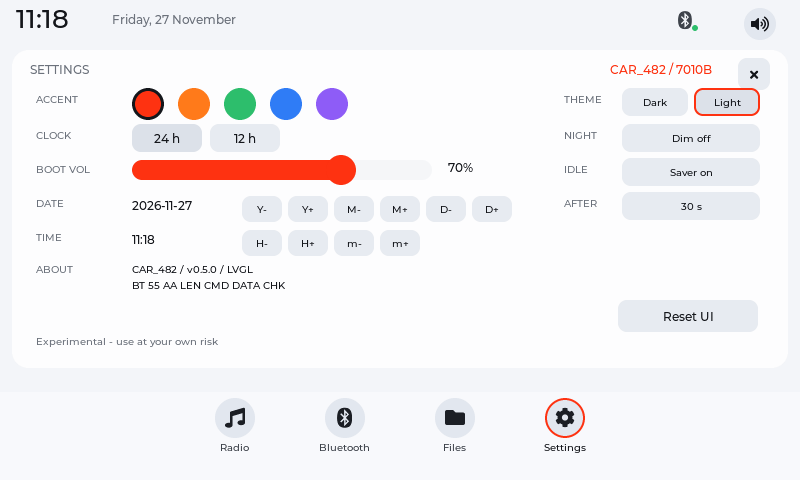
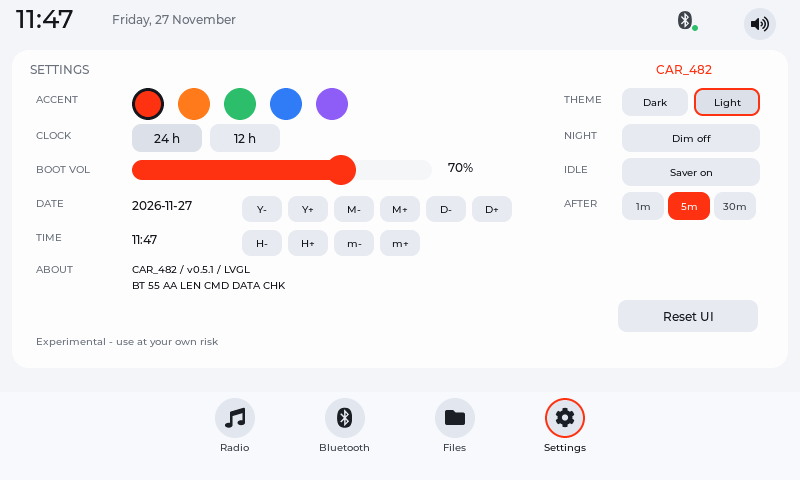
settings: remove close, shorten header, add 1m/5m/30m saver timeout options

diff --git a/prototype/index.html b/prototype/index.html
@@ -323,6 +323,10 @@
   }
   .file-preview .panel-close{position:absolute;right:12px;top:10px}
   .settings-cols{display:flex;gap:28px;margin-top:8px}
+  .settings-cols .settings-row{margin-top:6px}
+  .settings-cols .settings-row > span:first-child{white-space:nowrap;flex:none}
+  .settings-cols .settings-row .clock-btn{padding:5px 12px}
+  .settings-row [data-timeout].sel{background:var(--accent);color:#fff}
   .settings-col{flex:1;min-width:0}
   .settings-row{display:flex;align-items:center;gap:14px;margin-top:10px;font-size:11px;color:var(--muted)}
   .settings-input{background:var(--inner);border:0;border-radius:8px;color:var(--text);font-family:inherit;font-size:12px;padding:6px 8px;color-scheme:dark;width:180px}
@@ -656,7 +660,7 @@
 
   <!-- SETTINGS PANEL -->
   <section class="app-panel" id="settingsPanel">
-    <div class="panel-head"><span class="label">Settings</span><span class="source">CAR_482 / 7010B</span><button class="panel-close" data-close>×</button></div>
+    <div class="panel-head"><span class="label">Settings</span><span class="source">CAR_482</span></div>
     <div class="settings-cols">
       <div class="settings-col">
         <div class="settings-row">
@@ -694,7 +698,9 @@
         </div>
         <div class="settings-row">
           <span>Saver after</span>
-          <button class="clock-btn" id="saverTimeout">30 s</button>
+          <button class="clock-btn" data-timeout="60">1m</button>
+          <button class="clock-btn sel" data-timeout="300">5m</button>
+          <button class="clock-btn" data-timeout="1800">30m</button>
         </div>
       </div>
       <div class="settings-col">
@@ -718,7 +724,7 @@
         <div class="sub-label" style="margin-top:12px">About</div>
         <div class="about-grid">
           <span>Bluetooth</span><b>CAR_482</b>
-          <span>UI</span><b>LVGL 9.3 / v0.5.0</b>
+          <span>UI</span><b>LVGL 9.3 / v0.5.1</b>
           <span>BT link</span><b>55 AA LEN CMD DATA CHK</b>
         </div>
       </div>
@@ -924,10 +930,10 @@
   let lightTheme = false;
   let nightDimOn = false;
   let saverEnabled = true;
-  let saverTimeout = 30;
+  let saverTimeout = 300;
   try {
     const st = Number(localStorage.getItem('strada.saverTimeout'));
-    if (Number.isFinite(st) && st >= 5) saverTimeout = st;
+    if (st === 60 || st === 300 || st === 1800) saverTimeout = st;
   } catch (e) {}
   let lastActive = Date.now();
 
@@ -950,7 +956,8 @@
   function setSaverTimeout(sec) {
     saverTimeout = sec;
     try { localStorage.setItem('strada.saverTimeout', String(sec)); } catch (e) {}
-    el('saverTimeout').textContent = sec >= 60 ? (sec / 60) + ' min' : sec + ' s';
+    document.querySelectorAll('[data-timeout]').forEach(b =>
+      b.classList.toggle('sel', Number(b.dataset.timeout) === sec));
     lastActive = Date.now();
   }
   function setScreensaver(on) {
@@ -964,11 +971,8 @@
   el('themeLight').addEventListener('click', () => setTheme(true));
   el('nightToggle').addEventListener('click', () => setNightDim(!nightDimOn));
   el('saverToggle').addEventListener('click', () => setScreensaver(!saverEnabled));
-  el('saverTimeout').addEventListener('click', () => {
-    const steps = [15, 30, 60, 300];
-    const i = Math.max(0, steps.indexOf(saverTimeout));
-    setSaverTimeout(steps[(i + 1) % steps.length]);
-  });
+  document.querySelectorAll('[data-timeout]').forEach(b =>
+    b.addEventListener('click', () => setSaverTimeout(Number(b.dataset.timeout))));
   el('saver').addEventListener('click', () => {
     el('saver').classList.remove('show');
     lastActive = Date.now();
@@ -1651,7 +1655,8 @@
     el('saverToggle').textContent = saverEnabled ? 'Saver on' : 'Saver off';
     el('saverToggle').classList.toggle('sel', saverEnabled);
     renderBootVolume();
-    el('saverTimeout').textContent = saverTimeout >= 60 ? (saverTimeout / 60) + ' min' : saverTimeout + ' s';
+    document.querySelectorAll('[data-timeout]').forEach(b =>
+      b.classList.toggle('sel', Number(b.dataset.timeout) === saverTimeout));
   }
 
   el('ibAnswer').addEventListener('click', () => {

diff --git a/app/panels.c b/app/panels.c
@@ -40,7 +40,7 @@ static void (*cb_saver_timeout)(int);
 static bool night_on = false;
 static bool saver_on = true;
 static bool light_on = false;
-static int saver_timeout = 30;
+static int saver_timeout = 300;
 
 static lv_color_t col(uint32_t hex) { return lv_color_hex(hex); }
 
@@ -750,7 +750,7 @@ static lv_obj_t *theme_dark_lbl;
 static lv_obj_t *theme_light_lbl;
 static lv_obj_t *night_lbl;
 static lv_obj_t *saver_lbl;
-static lv_obj_t *timeout_lbl;
+static lv_obj_t *timeout_btns[3];
 
 static struct tm cal;
 static bool cal_ready = false;
@@ -831,9 +831,14 @@ static void settings_refresh(void) {
         lv_obj_set_style_border_color(lv_obj_get_parent(theme_light_lbl), col(ACCENTS[accent_idx]), 0);
         lv_label_set_text(night_lbl, night_on ? "Dim on" : "Dim off");
         lv_label_set_text(saver_lbl, saver_on ? "Saver on" : "Saver off");
-        if (timeout_lbl) {
-            if (saver_timeout >= 60) lv_label_set_text_fmt(timeout_lbl, "%d min", saver_timeout / 60);
-            else lv_label_set_text_fmt(timeout_lbl, "%d s", saver_timeout);
+        if (timeout_btns[0]) {
+            static const int STEPS[] = {60, 300, 1800};
+            for (int i = 0; i < 3; i++) {
+                bool sel = saver_timeout == STEPS[i];
+                lv_obj_set_style_bg_color(timeout_btns[i], col(sel ? 0xFE3211 : C_INNER), 0);
+                lv_obj_set_style_text_color(lv_obj_get_child(timeout_btns[i], 0),
+                                            col(sel ? 0xFFFFFF : C_SOFT), 0);
+            }
         }
     }
     cal_show();
@@ -900,11 +905,9 @@ static void saver_cb(lv_event_t *e) {
 }
 
 static void timeout_cb(lv_event_t *e) {
-    (void)e;
-    static const int STEPS[] = {15, 30, 60, 300};
-    int idx = 0;
-    for (int i = 0; i < 4; i++) if (STEPS[i] == saver_timeout) idx = i;
-    saver_timeout = STEPS[(idx + 1) % 4];
+    int seconds = (int)(intptr_t)lv_event_get_user_data(e);
+    if (seconds != 60 && seconds != 300 && seconds != 1800) return;
+    saver_timeout = seconds;
     if (cb_saver_timeout) cb_saver_timeout(saver_timeout);
     settings_refresh();
 }
@@ -922,17 +925,17 @@ static void settings_reset_cb(lv_event_t *e) {
     light_on = false;
     night_on = false;
     saver_on = true;
-    saver_timeout = 30;
+    saver_timeout = 300;
     if (cb_theme) cb_theme(false);
     if (cb_night) cb_night(false);
     if (cb_saver) cb_saver(true);
-    if (cb_saver_timeout) cb_saver_timeout(30);
+    if (cb_saver_timeout) cb_saver_timeout(300);
     settings_refresh();
 }
 
 static void build_settings(lv_obj_t *parent) {
     settings_panel = make_panel(parent);
-    panel_header(settings_panel, "SETTINGS", "CAR_482 / 7010B", true);
+    panel_header(settings_panel, "SETTINGS", "CAR_482", false);
 
     label(settings_panel, "ACCENT", 24, 44, 90, 14, &lv_font_montserrat_10, C_MUTED, LV_TEXT_ALIGN_LEFT);
     for (int i = 0; i < 5; i++) {
@@ -994,11 +997,17 @@ static void build_settings(lv_obj_t *parent) {
            saver_cb, &saver_lbl);
 
     label(settings_panel, "AFTER", 552, 148, 52, 14, &lv_font_montserrat_10, C_MUTED, LV_TEXT_ALIGN_LEFT);
-    button(settings_panel, "30 s", 610, 142, 138, 28, C_INNER, &lv_font_montserrat_10,
-           timeout_cb, &timeout_lbl);
+    static const char *TIMEOUT_TXT[] = {"1m", "5m", "30m"};
+    static const int TIMEOUT_SEC[] = {60, 300, 1800};
+    for (int i = 0; i < 3; i++) {
+        timeout_btns[i] = button(settings_panel, TIMEOUT_TXT[i], 610 + i * 46, 142, 42, 28,
+                                 C_INNER, &lv_font_montserrat_10, NULL, NULL);
+        lv_obj_add_event_cb(timeout_btns[i], timeout_cb, LV_EVENT_CLICKED,
+                            (void *)(intptr_t)TIMEOUT_SEC[i]);
+    }
 
     label(settings_panel, "ABOUT", 24, 214, 80, 14, &lv_font_montserrat_10, C_MUTED, LV_TEXT_ALIGN_LEFT);
-    label(settings_panel, "CAR_482 / v0.5.0 / LVGL", 120, 214, 320, 14,
+    label(settings_panel, "CAR_482 / v0.5.1 / LVGL", 120, 214, 320, 14,
           &lv_font_montserrat_10, C_TEXT, LV_TEXT_ALIGN_LEFT);
     label(settings_panel, "BT 55 AA LEN CMD DATA CHK", 120, 230, 320, 14,
           &lv_font_montserrat_10, C_TEXT, LV_TEXT_ALIGN_LEFT);

diff --git a/app/ui.c b/app/ui.c
@@ -37,7 +37,7 @@ static int radio_volume = 70;
 static int bt_volume = 70;
 static bool radio_muted = false;
 static int boot_volume = 70;     /* Settings slider: level used at power-on */
-static int saver_timeout_sec = 30;
+static int saver_timeout_sec = 300;
 static bool night_dim = false;
 static bool saver_enabled = true;
 
@@ -354,7 +354,10 @@ static void settings_load(void) {
     int v;
     while (fscanf(f, " %31[^=]=%d", key, &v) == 2) {
         if (!strcmp(key, "volume") && v >= 0 && v <= 100) boot_volume = v;
-        else if (!strcmp(key, "saver") && v >= 5 && v <= 3600) saver_timeout_sec = v;
+        else if (!strcmp(key, "saver")) {
+            if (v == 60 || v == 300 || v == 1800) saver_timeout_sec = v;
+            else if (v > 0) saver_timeout_sec = 300; /* migrate old 15/30 s values */
+        }
         int c;
         while ((c = fgetc(f)) != EOF && c != '\n') {}
     }
@@ -401,7 +404,7 @@ static void on_radio_mute(bool muted) {
 }
 
 static void on_saver_timeout(int seconds) {
-    if (seconds < 5 || seconds > 3600) return;
+    if (seconds != 60 && seconds != 300 && seconds != 1800) return;
     saver_timeout_sec = seconds;
     settings_save();
     panels_set_saver_timeout(seconds);

diff --git a/README.md b/README.md
@@ -83,7 +83,7 @@ The dock is no longer placeholder-only. The three app screens are real LVGL scre
 * **Boot volume** slider: sets the volume used at power-on and when radio starts. VOL+ / VOL− change the current volume only, so the boot level is not overwritten by normal listening. Saved in `strada.settings` (native) and `localStorage` (browser).
 * **Dark / Light theme** — the whole 800×480 UI recolors immediately
 * **Night dim** — a 50% black overlay for night driving
-* **Screensaver timeout** — choose 15 s, 30 s, 1 min or 5 min; tap the clock screen to wake
+* **Screensaver timeout** — choose 1 min, 5 min or 30 min; tap the clock screen to wake
 * About/build information and “Reset UI”
 * Settings apply immediately; boot volume and radio presets persist, theme/night/saver reset on restart
 
@@ -106,7 +106,7 @@ The top-bar speaker button opens **Settings and the volume popup together**, wit
 
 ![Light settings](docs/screenshots/light-settings.png)
 
-Switch **Theme → Light** for a daytime palette. **Night → Dim on** drops a 50% black overlay over the whole screen. **Idle → Saver on** shows the clock after the selected timeout (**After** cycles 15 s / 30 s / 1 min / 5 min); tap anywhere to wake.
+Switch **Theme → Light** for a daytime palette. **Night → Dim on** drops a 50% black overlay over the whole screen. **Idle → Saver on** shows the clock after the selected timeout (**After**: 1m / 5m / 30m); tap anywhere to wake.
 
 ![Night dim](docs/screenshots/night-dim.png)
 

diff --git a/docs/RELEASES.md b/docs/RELEASES.md
@@ -3,7 +3,7 @@
 ## Versioning
 
 - `VERSION` is the current UI version.
-- Tags use `vMAJOR.MINOR.PATCH` (for example `v0.5.0`).
+- Tags use `vMAJOR.MINOR.PATCH` (for example `v0.5.1`).
 - Every push to `main` builds and tests the emulator, the ARMv5 framebuffer binary and the patched SPI image.
 - A tag matching `v*` also publishes a GitHub Release with the build artifacts.
 
@@ -26,8 +26,8 @@ $EDITOR VERSION README.md
 
 # 3. Commit, tag and push
 git add VERSION README.md
-git commit -m "release: v0.5.0"
-git tag v0.5.0
+git commit -m "release: v0.5.1"
+git tag v0.5.1
 git push origin main --tags
 ```
 
